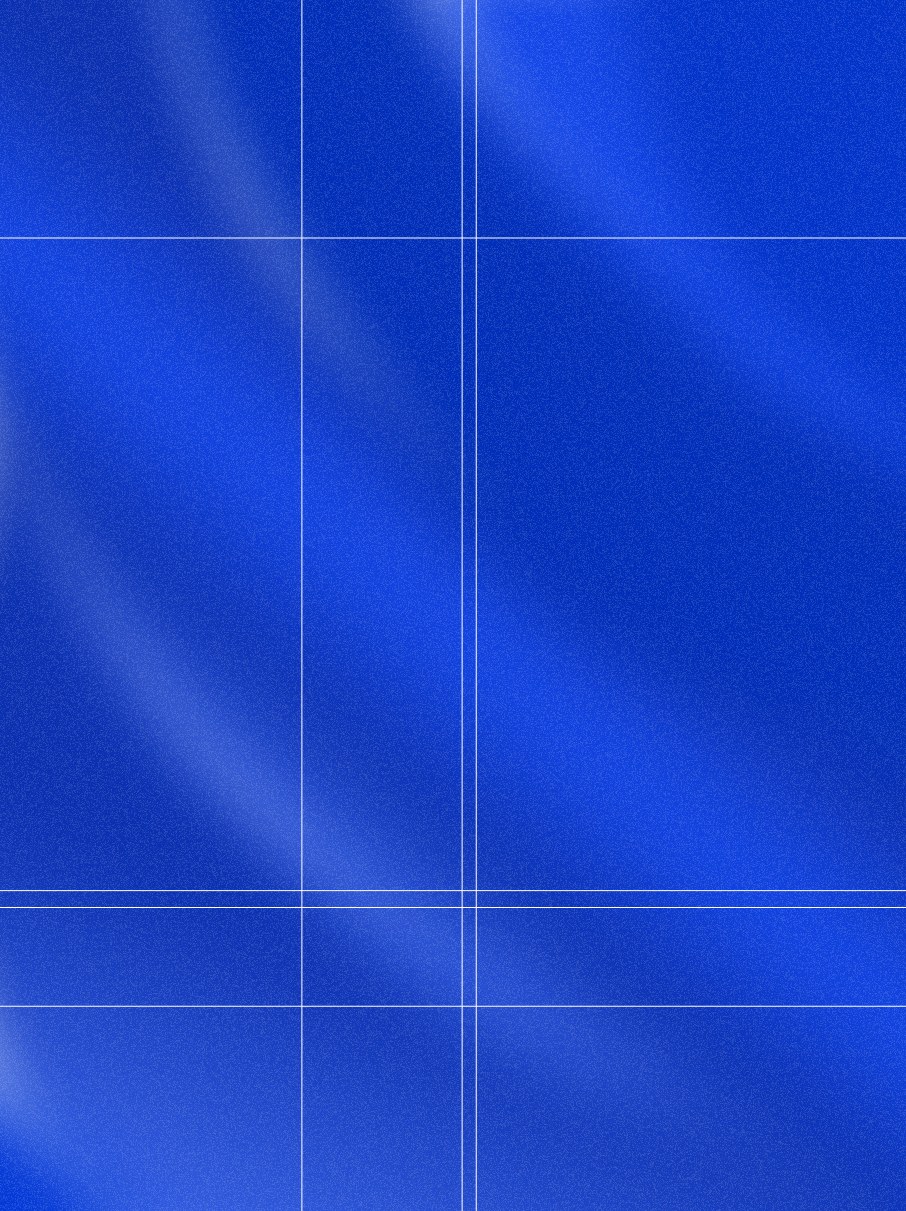
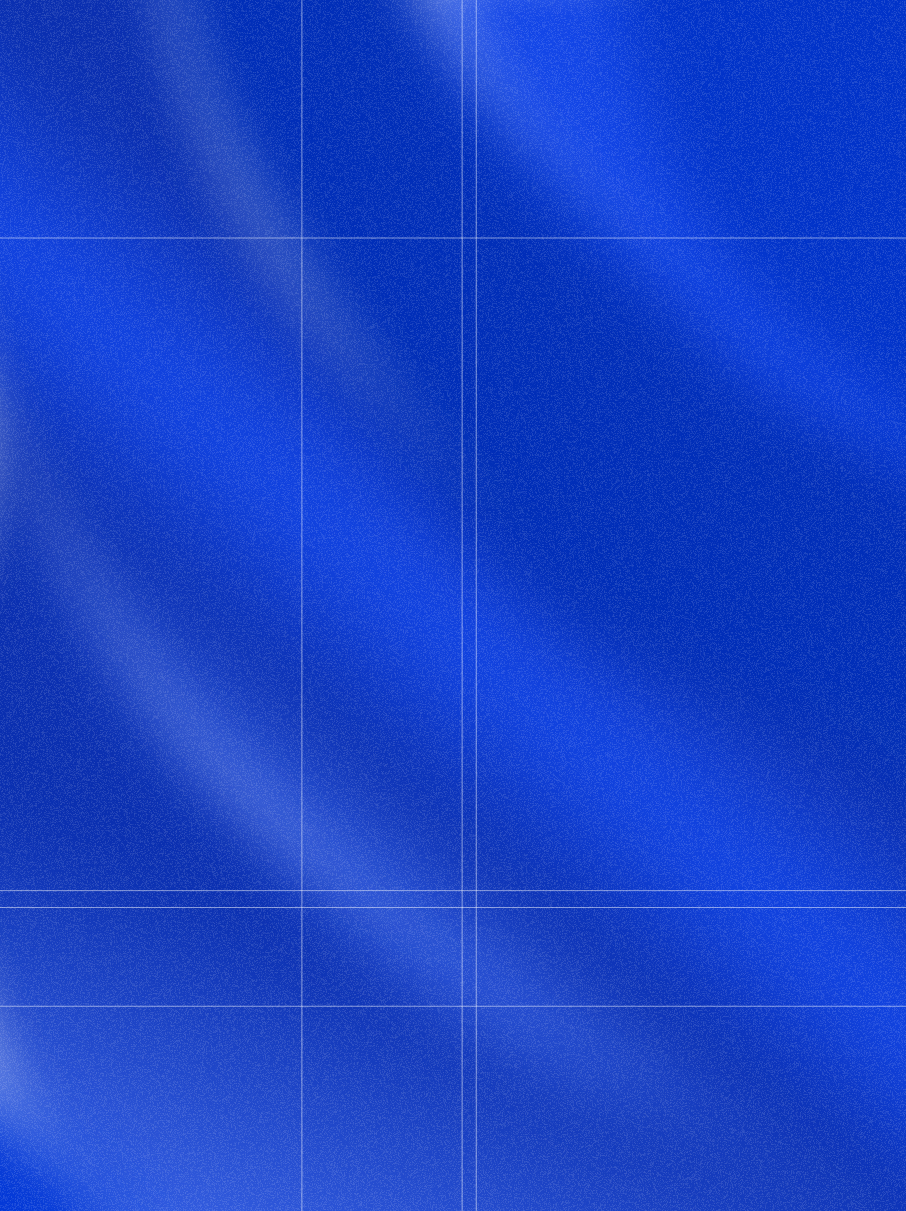
Enhance Hero Section and SVG Animations
- Updated HeroSection component to include a new background image and adjusted styles for better visual appeal.
- Integrated framer-motion for animated paths in HeroSvg, adding dynamic movement to specific elements.
- Modified Mascot SVG dimensions and added new design elements for improved aesthetics.
- Updated gradient images for CTA and search sections, including new assets for enhanced visual effects.

diff --git a/components/landing/svg/hero-svg.tsx b/components/landing/svg/hero-svg.tsx
@@ -1,3 +1,6 @@
+"use client";
+import { motion } from "framer-motion";
+
 const HeroSvg = () => {
   return (
     <svg
@@ -100,7 +103,8 @@ const HeroSvg = () => {
         d="M668.605 255.632V240.135C670.194 241.879 672.407 243.775 675.103 245.421C675.896 245.904 676.73 246.366 677.603 246.796C684.357 250.126 693.403 251.554 703.098 246.358C704.092 245.826 705.092 245.224 706.097 244.547C708.246 243.101 710.418 241.313 712.596 239.136V253.633V260.631C715.43 262.692 716.618 265.417 717.016 267.63C717.235 268.852 717.214 269.918 717.095 270.629C717.075 270.712 717.054 270.793 717.033 270.874L717.143 292.125L717.359 333.617L717.437 348.614L717.46 353.113L717.486 358.112L717.541 368.61L717.568 373.859L717.595 379.108L730.093 404.603V463.092C728.26 465.591 723.494 469.99 719.095 467.591V473.59C711.856 479.22 704.961 478.874 700.099 476.98C697.708 476.048 695.808 474.743 694.6 473.59C691.4 475.189 688.268 474.256 687.101 473.59C680.302 479.988 670.938 478.922 667.105 477.589C663.772 476.422 657.807 472.79 660.606 467.591C654.208 466.791 651.608 464.258 651.108 463.092V404.603L664.391 378.108V373.859V369.61V365.111V359.112V354.113V348.614V333.617V292.125V268.63C664.33 263.739 666.592 261.001 668.605 259.132V255.632Z"
         fill="white"
       />
-      <path
+      <motion.path
+        className="rocket"
         d="M668.605 229.138V240.135M668.605 229.138C670.883 230.495 670.803 230.814 674.604 232.091M668.605 229.138C666.689 228.283 662.978 225.962 663.457 223.51C663.8 221.757 663.876 213.068 667.349 197.448M668.605 240.135V255.632M668.605 240.135C670.194 241.879 672.407 243.775 675.103 245.421M668.605 255.632V259.132M668.605 255.632C669.607 257.252 671.823 259.513 675.103 261.427M712.596 253.633V239.136M712.596 253.633V260.631M712.596 253.633C710.893 257.039 708.51 259.439 705.83 261.131M712.596 239.136V228.341M712.596 239.136C710.418 241.313 708.246 243.101 706.097 244.547M712.596 228.341C709.743 230.654 705.098 232.57 703.598 232.57M712.596 228.341C715.52 226.478 716.134 224.344 716.075 223.51C714.929 214.632 713.237 205.957 711.261 197.752M668.605 259.132V267.63C668.936 270.5 671.286 275.229 677.603 277.977M668.605 259.132C666.592 261.001 664.33 263.739 664.391 268.63M717.033 270.874C716.027 274.72 714.323 276.927 706.097 281.627C697.699 286.426 684.602 284.96 679.103 283.627C674.604 281.627 665.375 276.129 664.605 271.129C664.468 270.238 664.4 269.407 664.391 268.63M717.033 270.874C717.054 270.793 717.075 270.712 717.095 270.629C717.214 269.918 717.235 268.852 717.016 267.63M717.033 270.874L717.143 292.125M717.033 270.874L717.016 267.63M712.596 260.631V267.63C712.293 270.059 710.293 273.999 705.098 276.809M712.596 260.631C715.43 262.692 716.618 265.417 717.016 267.63M664.391 268.63V292.125M664.391 378.108C672.961 386.773 695.599 399.104 717.595 379.108M664.391 378.108V373.859M664.391 378.108L651.108 404.603M664.391 378.108L663.106 409.602M717.595 379.108L717.568 373.859M717.595 379.108L730.093 404.603M717.595 379.108L717.381 409.602M664.391 292.125C677.603 304.123 696.785 308.922 717.143 292.125M664.391 292.125V333.617M717.143 292.125L717.359 333.617M664.391 333.617C672.636 341.282 694.774 352.013 717.359 333.617M664.391 333.617V348.614M717.359 333.617L717.437 348.614M664.391 348.614C673.355 355.946 696.514 366.211 717.437 348.614M664.391 348.614V354.113M717.437 348.614L717.46 353.113M664.391 354.113C673.37 361.278 696.556 371.11 717.46 353.113M664.391 354.113V359.112M717.46 353.113L717.486 358.112M664.391 359.112C672.388 366.111 694.203 375.709 717.486 358.112M664.391 359.112V365.111M717.486 358.112L717.541 368.61M664.391 365.111C672.803 371.443 695.174 380.008 717.359 363.611M664.391 365.111V369.61M664.391 369.61C672.924 376.275 695.501 385.407 717.541 368.61M664.391 369.61V373.859M717.541 368.61L717.568 373.859M664.391 373.859C673.942 381.274 697.95 391.656 717.568 373.859M677.603 246.796C677.77 244.076 678.003 238.536 677.603 238.136C677.103 237.636 674.604 237.136 674.604 236.136V232.091M677.603 246.796C676.73 246.366 675.896 245.904 675.103 245.421M677.603 246.796C684.357 250.126 693.403 251.554 703.098 246.358M674.604 232.091C686.204 234.485 691.869 234.644 703.598 232.57M703.598 232.57C703.431 234.403 703.198 237.336 703.598 238.136C704.098 239.136 706.097 237.636 706.097 239.136V244.547M706.097 244.547C705.092 245.224 704.092 245.826 703.098 246.358M675.103 245.421C674.937 247.158 674.704 250.833 675.103 251.633C675.603 252.633 677.603 252.133 677.603 254.133V262.71M677.603 262.71C681.094 264.277 685.466 265.344 690.6 265.131C694.212 264.98 698.675 264.479 702.809 262.71M677.603 262.71C676.712 262.311 675.878 261.878 675.103 261.427M703.098 246.358C702.931 248.283 702.698 252.333 703.098 253.133C703.598 254.133 706.097 253.133 706.097 253.633C706.097 254.033 705.919 258.798 705.83 261.131M705.83 261.131C704.856 261.747 703.843 262.268 702.809 262.71M675.103 261.427C674.937 262.661 674.704 265.43 675.103 266.63C675.603 268.13 677.603 267.63 677.603 268.63V277.977M677.603 277.977C680.82 279.377 685.067 280.263 690.6 280.128C697.04 279.97 701.737 278.626 705.098 276.809M702.809 262.71C702.713 264.158 702.578 267.268 702.809 268.13C703.098 269.207 704.782 268.273 705.098 269.451C705.35 270.394 705.203 274.749 705.098 276.809M651.108 404.603C652.608 406.936 657.107 411.202 663.106 409.602M651.108 404.603V463.092C651.608 464.258 654.208 466.791 660.606 467.591M663.106 409.602V412.774M660.606 467.591V417.601M660.606 467.591C657.807 472.79 663.772 476.422 667.105 477.589M660.606 417.601C661.806 420 665.439 419.6 667.105 419.1M660.606 417.601L663.106 412.774M675.103 389.606L687.101 416.601M675.103 389.606L667.105 419.1M675.103 389.606L663.106 412.774M687.101 416.601C683.435 419.1 674.304 423.1 667.105 419.1M687.101 416.601V473.59M667.105 419.1V477.589M667.105 477.589C670.938 478.922 680.302 479.988 687.101 473.59M687.101 473.59C688.268 474.256 691.4 475.189 694.6 473.59M694.6 416.601L706.597 389.606M694.6 416.601C694.6 417.401 697.266 418.6 698.599 419.1C699.107 419.3 699.607 419.482 700.099 419.647M694.6 416.601V473.59M706.597 389.606L700.099 419.647M706.597 389.606L717.359 412.851M719.095 416.601C717.027 419.146 710.434 423.118 700.099 419.647M719.095 416.601L717.359 412.851M719.095 416.601V467.591M700.099 419.647V476.98M694.6 473.59C695.808 474.743 697.708 476.048 700.099 476.98M700.099 476.98C704.961 478.874 711.856 479.22 719.095 473.59V467.591M717.359 412.851L717.381 409.602M730.093 404.603C728.117 406.936 722.809 411.202 717.381 409.602M730.093 404.603V463.092C728.26 465.591 723.494 469.99 719.095 467.591M667.349 197.448C675.39 202.463 695.429 209.545 711.261 197.752M667.349 197.448C667.976 194.628 668.714 191.583 669.584 188.311M711.261 197.752C710.485 194.527 709.665 191.375 708.817 188.311M669.584 188.311C676.729 192.707 694.579 198.86 708.817 188.311M669.584 188.311C670.699 184.12 672.03 179.559 673.625 174.627M708.817 188.311C707.488 183.512 706.091 178.929 704.687 174.627M673.625 174.627C679.469 177.835 693.864 182.327 704.687 174.627M673.625 174.627C674.396 172.24 675.229 169.767 676.128 167.207M704.687 174.627C703.845 172.049 703.001 169.571 702.167 167.207M676.128 167.207C677.934 162.067 680.009 156.577 682.393 150.737L687.811 138.988C688.351 137.958 689.695 136.516 690.755 138.988C691.431 140.566 696.564 151.321 702.167 167.207M676.128 167.207C681.146 169.202 693.378 171.995 702.167 167.207M669.605 311.122C671.437 312.121 675.103 314.321 675.103 315.121C675.103 316.121 675.603 326.618 675.103 327.118C674.604 327.618 668.605 324.619 668.605 324.119C668.605 323.619 668.105 310.622 669.605 311.122ZM686.101 316.62C688.268 316.454 692.8 316.221 693.6 316.62C694.6 317.12 694.6 329.618 694.1 330.118C693.6 330.618 686.101 331.118 686.101 330.118C686.101 329.118 685.408 316.67 686.101 316.62ZM705.098 315.121C706.764 313.621 710.297 310.722 711.096 311.122C712.096 311.621 712.096 322.619 711.596 323.119C711.096 323.619 706.097 328.118 705.597 327.618C705.098 327.118 704.598 315.563 705.098 315.121Z"
         stroke="black"
       />
@@ -185,6 +189,14 @@ const HeroSvg = () => {
         cy="2.6373"
         r="2.1373"
         transform="matrix(0.866025 -0.5 0.866025 0.5 82.9001 134.986)"
+        fill="white"
+        stroke="black"
+      />
+      <circle
+        cx="2.6373"
+        cy="2.6373"
+        r="2.1373"
+        transform="matrix(0.866025 -0.5 0.866025 0.5 8.81128 93.5552)"
         fill="white"
         stroke="black"
       />
@@ -302,7 +314,7 @@ const HeroSvg = () => {
         />
       </g>
       <path
-        d="M253.285 205.054L291.233 211.844L424.335 209.315L467.809 209.428C468.286 206.537 465.856 204.393 464.581 203.683C435.86 187.276 376.596 153.293 369.307 148.621C362.017 143.95 354.729 146.303 351.995 148.064L253.285 205.054Z"
+        d="M253.285 205.054L291.106 211.844L317.702 216.515V229.842L333.826 239.603L334.99 201.797L424.335 209.315L467.809 209.428C468.286 206.537 465.856 204.393 464.581 203.683C435.86 187.276 376.596 153.293 369.307 148.621C362.017 143.95 354.729 146.303 351.995 148.064L253.285 205.054Z"
         fill="white"
       />
       <path
@@ -310,33 +322,60 @@ const HeroSvg = () => {
         stroke="black"
       />
       <path
-        d="M368.381 149.867C370.116 149.724 375.803 149.78 378.182 151.154L416.107 173.05C422.458 177.939 424.066 184.378 423.599 189.824L423.599 212.119C423.231 215.888 421.426 219.377 420.569 220.65C404.22 237.394 385.995 238.913 378.926 237.58C368.108 236.597 364.999 234.369 364.797 233.377V212.119L368.381 149.867Z"
+        d="M368.381 153.867C370.116 153.724 375.803 153.78 378.182 155.154L416.107 177.05C422.458 181.939 424.066 188.378 423.599 193.824L423.599 216.119C423.231 219.888 421.426 223.377 420.569 224.65C404.22 241.394 385.995 242.913 378.926 241.58C368.108 240.597 364.999 238.369 364.797 237.377V216.119L368.381 153.867Z"
         fill="white"
       />
-      <path
-        d="M420.569 198.81C416.107 205.679 396.029 218.13 378.926 215.983M420.569 198.81L420.569 220.65M420.569 198.81C421.981 196.83 423.279 193.561 423.599 189.824M378.926 215.983C365.243 214.266 365.789 212.406 364.797 212.119M378.926 215.983V237.58M364.797 212.119L368.381 149.867C370.116 149.724 375.803 149.78 378.182 151.154C380.562 152.528 403.962 166.038 416.107 173.05C422.458 177.939 424.066 184.378 423.599 189.824M364.797 212.119V233.377C364.999 234.369 368.108 236.597 378.926 237.58M378.926 237.58C385.995 238.913 404.22 237.394 420.569 220.65M420.569 220.65C421.426 219.377 423.231 215.888 423.599 212.119L423.599 189.824"
+      <motion.path
+        animate={{ y: [0, -3, 0, 7, 0] }}
+        transition={{
+          duration: 1.1,
+          ease: "easeInOut",
+          repeat: Infinity,
+          times: [0, 0.2, 0.5, 0.8, 1],
+          delay: 0.4,
+        }}
+        d="M420.569 202.81C416.107 209.679 396.029 222.13 378.926 219.983M420.569 202.81L420.569 224.65M420.569 202.81C421.981 200.83 423.279 197.561 423.599 193.824M378.926 219.983C365.243 218.266 365.789 216.406 364.797 216.119M378.926 219.983V241.58M364.797 216.119L368.381 153.867C370.116 153.724 375.803 153.78 378.182 155.154C380.562 156.528 403.962 170.038 416.107 177.05C422.458 181.939 424.066 188.378 423.599 193.824M364.797 216.119V237.377C364.999 238.369 368.108 240.597 378.926 241.58M378.926 241.58C385.995 242.913 404.22 241.394 420.569 224.65M420.569 224.65C421.426 223.377 423.231 219.888 423.599 216.119L423.599 193.824"
         stroke="black"
       />
       <path
-        d="M295.638 185.071L318.691 171.761L319.184 193.502L317.203 228.326L297.125 217.074C293.092 214.814 291.965 212.505 291.906 211.632L291.906 189.711C291.902 189.623 291.902 189.534 291.906 189.446C291.975 187.898 293.266 186.44 295.638 185.071Z"
+        d="M295.638 189.071L318.691 175.761L319.184 197.502L317.203 232.326L297.125 221.074C293.092 218.814 291.965 216.505 291.906 215.632L291.906 193.711C291.902 193.623 291.902 193.534 291.906 193.446C291.975 191.898 293.266 190.44 295.638 189.071Z"
         fill="white"
       />
-      <path
-        d="M318.691 171.761L295.638 185.071C293.266 186.44 291.975 187.898 291.906 189.446M318.691 171.761L317.203 206.967M318.691 171.761L319.184 193.502L317.203 228.326M297.125 195.375C304.264 199.496 313.485 204.82 317.203 206.967M297.125 195.375V217.074M297.125 195.375C296.587 195.063 296.091 194.755 295.638 194.45C293.029 192.689 291.835 191.022 291.906 189.446M317.203 206.967V228.326M317.203 228.326L297.125 217.074M297.125 217.074C293.092 214.814 291.965 212.505 291.906 211.632L291.906 189.446"
+      <motion.path
+        animate={{ y: [0, -3, 0, 7, 0] }}
+        transition={{
+          duration: 1.1,
+          ease: "easeInOut",
+          repeat: Infinity,
+          times: [0, 0.2, 0.5, 0.8, 1],
+          delay: 0.2,
+        }}
+        d="M318.691 175.761L295.638 189.071C293.266 190.44 291.975 191.898 291.906 193.446M318.691 175.761L317.203 210.967M318.691 175.761L319.184 197.502L317.203 232.326M297.125 199.375C304.264 203.496 313.485 208.82 317.203 210.967M297.125 199.375V221.074M297.125 199.375C296.587 199.063 296.091 198.755 295.638 198.45C293.029 196.689 291.835 195.022 291.906 193.446M317.203 210.967V232.326M317.203 232.326L297.125 221.074M297.125 221.074C293.092 218.814 291.965 216.505 291.906 215.632L291.906 193.446"
         stroke="black"
         stroke-linejoin="round"
       />
       <path
-        d="M338.026 159.74L359.591 147.29C362.261 145.748 366.653 145.503 368.515 145.572C368.515 159.734 367.33 180.054 366.079 197.069L364.894 233.932L363.309 249.988C362.564 253.282 356.554 251.36 353.642 249.988L334.308 238.316V216.842L338.026 159.74Z"
+        d="M338.026 163.74L359.591 151.29C362.261 149.748 366.653 149.503 368.515 149.572C368.515 163.734 367.33 184.054 366.079 201.069L364.894 237.932L363.309 253.988C362.564 257.282 356.554 255.36 353.642 253.988L334.308 242.316V220.842L338.026 163.74Z"
         fill="white"
       />
-      <path
-        d="M334.308 216.842L338.026 159.74L359.591 147.29C362.261 145.748 366.653 145.503 368.515 145.572C368.515 159.734 367.33 180.054 366.079 197.069M334.308 216.842L353.642 228.005M334.308 216.842V238.316L353.642 249.988M353.642 228.005C355.129 228.863 362.899 231.039 363.309 228.434M353.642 228.005V249.988M363.309 228.434V249.988M363.309 228.434C363.67 226.145 364.903 213.068 366.079 197.069M363.309 249.988C362.564 253.282 356.554 251.36 353.642 249.988M363.309 249.988L364.894 233.932L366.079 197.069"
+      <motion.path
+        animate={{ y: [0, -3, 0, 7, 0] }}
+        transition={{
+          duration: 1.1,
+          ease: "easeInOut",
+          repeat: Infinity,
+          times: [0, 0.2, 0.5, 0.8, 1],
+        }}
+        d="M334.308 220.842L338.026 163.74L359.591 151.29C362.261 149.748 366.653 149.503 368.515 149.572C368.515 163.734 367.33 184.054 366.079 201.069M334.308 220.842L353.642 232.005M334.308 220.842V242.316L353.642 253.988M353.642 232.005C355.129 232.863 362.899 235.039 363.309 232.434M353.642 232.005V253.988M363.309 232.434V253.988M363.309 232.434C363.67 230.145 364.903 217.068 366.079 201.069M363.309 253.988C362.564 257.282 356.554 255.36 353.642 253.988M363.309 253.988L364.894 237.932L366.079 201.069"
         stroke="black"
       />
       <path
-        d="M291.251 211.854L254.445 205.235C249.642 207.583 252.716 211.135 254.309 212.116L353.12 269.415C359.638 272.163 364.618 270.56 366.294 269.415C398.102 251.175 462.435 214.281 465.294 212.634C468.153 210.986 468.552 209.826 468.394 209.452L424.165 209.279C424.681 215.545 422.136 220.53 420.831 222.199C402.489 240.067 385.525 239.776 378.81 239.3C373.439 238.919 367.685 236.989 365.479 236.071L363.886 252.096C361.937 254.345 356.077 252.221 353.39 250.878L333.804 239.445V218.585L334.658 205.113L319.15 206.444L318.44 218.918C318.44 218.918 318.053 229.829 317.635 229.829C317.216 229.829 300.911 220.534 296.038 217.61C291.165 214.686 291.251 212.959 291.251 211.854Z"
+        d="M254.445 205.235L291.381 211.162C291.381 212.267 291.165 214.686 296.038 217.61C300.911 220.534 317.216 229.829 317.635 229.829L333.804 239.445L353.39 250.878C356.076 252.221 361.937 254.345 363.886 252.096L365.745 235.87C367.951 236.788 373.166 238.267 378.649 238.855C385.342 239.573 402.489 240.067 420.831 222.199C422.136 220.53 424.71 215.235 424.195 208.97H468.523C468.68 209.344 468.153 210.986 465.294 212.634C462.435 214.281 398.102 251.175 366.293 269.415C364.618 270.56 359.638 272.163 353.12 269.415L254.308 212.116C252.716 211.135 249.642 207.583 254.445 205.235Z"
         fill="white"
+      />
+      <path
+        d="M291.791 211.063C291.791 212.168 291.212 214.423 296.085 217.347C300.958 220.271 317.451 229.396 317.87 229.396M333.804 239.006L353.39 250.878C356.076 252.222 361.745 253.762 363.694 251.513L365.421 235.297C367.627 236.215 374.25 238.062 379.621 238.443C386.335 238.919 399.768 239.646 420.456 222.114C424.169 218.115 423.76 216.005 423.76 209.298"
+        stroke="black"
       />
       <path
         d="M439.216 249.611L405.677 269.416V295.34L439.216 276.719V249.611Z"

diff --git a/components/landing/svg/mascot.tsx b/components/landing/svg/mascot.tsx
@@ -4,45 +4,52 @@ const Mascot = () => {
   return (
     <>
       <svg
-        width="42"
-        height="42"
-        viewBox="0 0 42 42"
+        width="235"
+        height="181"
+        viewBox="0 0 235 181"
         fill="none"
         xmlns="http://www.w3.org/2000/svg"
       >
         <path
-          data-figma-bg-blur-radius="20"
-          d="M20.7496 5.40685C22.2554 5.40685 23.7836 5.60912 25.2444 5.99117C29.2447 1.49642 36.5487 -0.391379 39.6725 0.9121C42.8189 2.21558 38.7286 16.6437 38.7286 16.6437C40.0096 19.0484 40.976 21.6779 40.976 24.3747C40.976 34.398 31.9191 41.3649 20.7496 41.3649C9.58015 41.3649 0.523221 34.6228 0.523221 24.3747C0.523221 21.5655 1.64691 18.981 2.7706 16.6437C2.7706 16.6437 -1.47694 2.21558 1.64691 0.9121C4.77076 -0.391379 12.2545 1.429 16.2549 5.92375C17.7292 5.58464 19.2368 5.41127 20.7496 5.40685Z"
-          stroke="white"
-          strokeLinecap="round"
-          strokeLinejoin="round"
+          d="M60.9968 172.816C38.9355 167.665 6.72303 151.046 4.31532 108.108C3.23331 88.8117 8.79683 71.7645 16.6627 57.8859C-11.7918 37.3621 2.54146 14.7596 13.2649 6.02374C36.8103 -7.42482 52.2304 8.13898 56.9972 17.602C104.258 -7.68351 147.026 1.49548 176.411 17.602C181.184 10.2488 194.174 -3.40926 207.955 0.783184C218.649 2.11611 238.893 11.295 234.323 37.3473C233.607 42.2795 229.305 53.2922 217.823 57.8859C229.999 81.8895 238.72 119.169 213.987 150.243C182.687 189.57 98.9518 181.678 60.9968 172.816Z"
+          fill="white"
         />
         <path
-          d="M11.9893 25.3379V26.4392"
-          stroke="white"
-          strokeLinecap="round"
-          strokeLinejoin="round"
+          d="M176.411 17.602C190.159 25.1373 200.977 34.1889 207.955 41.937C211.114 46.074 214.59 51.5119 217.823 57.8859C229.305 53.2922 233.607 42.2795 234.323 37.3473C238.893 11.295 218.649 2.11611 207.955 0.783184C194.174 -3.40926 181.184 10.2488 176.411 17.602Z"
+          fill="black"
         />
         <path
-          d="M29.48 25.3369V26.4383"
-          stroke="white"
-          strokeLinecap="round"
-          strokeLinejoin="round"
+          d="M47.9555 22.834C50.9859 20.9466 54.0006 19.2047 56.9972 17.6015C52.2304 8.13851 36.8103 -7.42529 13.2649 6.02327C2.54146 14.7591 -11.7918 37.3616 16.6627 57.8855C26.3001 40.8814 39.3936 28.6338 47.9555 22.834Z"
+          fill="black"
         />
         <path
-          d="M19.1001 30.2935H22.3798L20.74 31.9455L19.1001 30.2935Z"
-          stroke="white"
-          strokeLinecap="round"
-          strokeLinejoin="round"
+          d="M37.1879 111.331C38.0751 86.0456 53.4301 77.5063 60.9966 76.3973C72.8623 73.5668 82.8523 82.7182 84.9266 91.3564C87.6953 111.845 76.3897 122.505 70.3908 125.273C42.7036 136.427 36.7192 120.626 37.1879 111.331Z"
+          fill="black"
         />
-        <defs>
-          <clipPath
-            id="bgblur_0_1017_809_clip_path"
-            transform="translate(20 20)"
-          >
-            <path d="M20.7496 5.40685C22.2554 5.40685 23.7836 5.60912 25.2444 5.99117C29.2447 1.49642 36.5487 -0.391379 39.6725 0.9121C42.8189 2.21558 38.7286 16.6437 38.7286 16.6437C40.0096 19.0484 40.976 21.6779 40.976 24.3747C40.976 34.398 31.9191 41.3649 20.7496 41.3649C9.58015 41.3649 0.523221 34.6228 0.523221 24.3747C0.523221 21.5655 1.64691 18.981 2.7706 16.6437C2.7706 16.6437 -1.47694 2.21558 1.64691 0.9121C4.77076 -0.391379 12.2545 1.429 16.2549 5.92375C17.7292 5.58464 19.2368 5.41127 20.7496 5.40685Z" />
-          </clipPath>
-        </defs>
+        <path
+          d="M152.103 114.835C142.383 95.126 150.078 83.6738 155.14 80.4114C158.178 77.6592 176.411 67.2492 191.589 91.3557C203.732 110.641 194.849 123.144 188.889 126.985C180.677 131.148 161.823 134.545 152.103 114.835Z"
+          fill="black"
+        />
+        <path
+          d="M114.77 127.711C109.776 127.589 104.945 121.308 105.407 118.119C105.981 114.158 112.785 114.158 117.358 114.158H117.358C121.931 114.158 128.711 114.921 128.929 119.033C129.148 123.144 123.307 126.531 120.359 127.711C119.629 130.6 120.359 133.178 120.814 134.106C127.945 143.634 135.038 135.588 135.858 134.106C136.515 132.92 137.955 132.749 138.594 132.812C142.751 133.654 140.934 137.273 139.505 138.978C130.898 148.765 121.155 143.055 117.358 138.978C107.919 147.991 99.216 143.291 96.0442 139.815C94.877 138.698 92.7404 135.994 93.5321 134.106C94.3238 132.218 96.1965 132.456 97.0339 132.812C108.848 144.566 115.027 135.052 114.77 127.711Z"
+          fill="black"
+        />
+        <ellipse
+          cx="70.4993"
+          cy="102.998"
+          rx="4.5354"
+          ry="6.18555"
+          transform="rotate(28.241 70.4993 102.998)"
+          fill="white"
+        />
+        <ellipse
+          cx="162.033"
+          cy="103.444"
+          rx="4.5354"
+          ry="6.18555"
+          transform="rotate(-15 162.033 103.444)"
+          fill="white"
+        />
       </svg>
     </>
   );

diff --git a/app/page.tsx b/app/page.tsx
@@ -22,7 +22,7 @@ const Page = () => {
       {/* Row 2: Hero Section */}
       <div
         id="home"
-        className="col-start-2 row-start-3 flex w-[95vw] scroll-mt-24 flex-col gap-2 px-3 pt-20 sm:px-6 md:w-[90vw]"
+        className="col-start-2 row-start-3 flex w-[95vw] scroll-mt-24 flex-col gap-2 px-3 pt-20 pb-10 sm:px-6 sm:pb-14 md:w-[90vw]"
       >
         <HeroSection />
       </div>
@@ -32,7 +32,7 @@ const Page = () => {
       {/* Row 3: Search Section */}
       <div
         id="search"
-        className="col-start-2 row-start-5 flex w-[95vw] scroll-mt-24 flex-col gap-2 px-3 sm:px-6 md:w-[90vw]"
+        className="col-start-2 row-start-5 flex w-[95vw] scroll-mt-24 flex-col gap-2 px-3 py-10 sm:px-6 sm:py-14 md:w-[90vw]"
       >
         <Search />
       </div>
@@ -42,7 +42,7 @@ const Page = () => {
       {/* Row 4: Bento Section */}
       <div
         id="features"
-        className="col-start-2 row-start-7 flex w-[95vw] scroll-mt-24 flex-col p-3 sm:p-6 md:w-[90vw]"
+        className="col-start-2 row-start-7 flex w-[95vw] scroll-mt-24 flex-col p-3 py-10 sm:p-6 sm:py-14 md:w-[90vw]"
       >
         <Bento />
       </div>
@@ -52,7 +52,7 @@ const Page = () => {
       {/* Row 5: Testimonials Section */}
       <div
         id="testimonials"
-        className="col-start-2 row-start-9 flex w-[95vw] scroll-mt-24 flex-col p-3 sm:p-6 md:w-[90vw]"
+        className="col-start-2 row-start-9 flex w-[95vw] scroll-mt-24 flex-col p-3 py-10 sm:p-6 sm:py-14 md:w-[90vw]"
       >
         <Testimonials />
       </div>
@@ -62,7 +62,7 @@ const Page = () => {
       {/* Row 6: FAQ Section */}
       <div
         id="faq"
-        className="col-start-2 row-start-11 flex w-[95vw] scroll-mt-24 flex-col px-3 sm:px-6 md:w-[90vw]"
+        className="col-start-2 row-start-11 flex w-[95vw] scroll-mt-24 flex-col px-3 py-10 sm:px-6 sm:py-14 md:w-[90vw]"
       >
         <Faq />
       </div>
@@ -70,14 +70,14 @@ const Page = () => {
       <div className="pointer-events-none col-span-full col-start-1 row-start-12 border-b-2 border-dashed" />
 
       {/* Row 7: CTA Section */}
-      <div className="col-start-2 row-start-13 flex w-[95vw] flex-col overflow-hidden p-3 sm:p-6 md:w-[90vw]">
+      <div className="col-start-2 row-start-13 flex w-[95vw] flex-col overflow-hidden p-3 py-10 sm:p-6 sm:py-14 md:w-[90vw]">
         <CTA />
       </div>
 
       <div className="pointer-events-none col-span-full col-start-1 row-start-14 border-b-2 border-dashed" />
 
       {/* Row 8: Footer */}
-      <div className="col-start-2 row-start-15 flex w-[95vw] flex-col px-3 py-6 sm:px-6 md:w-[90vw]">
+      <div className="col-start-2 row-start-15 flex w-[95vw] flex-col px-3 py-10 sm:px-6 sm:py-14 md:w-[90vw]">
         <Footer />
       </div>
 

diff --git a/components/landing/components/herosection.tsx b/components/landing/components/herosection.tsx
@@ -31,8 +31,10 @@ const HeroSection = () => {
           <span className="flex items-start gap-2 sm:gap-3">
             Strong{" "}
             <span
-              className="rounded-md bg-blue-700 p-1 sm:p-1.5 md:p-2 [&_svg]:size-6 sm:[&_svg]:size-8 md:[&_svg]:size-10"
+              className="rounded-md bg-cover bg-center bg-no-repeat p-1 sm:p-1.5 md:p-2 [&_svg]:size-6 sm:[&_svg]:size-8 md:[&_svg]:size-10"
               style={{
+                backgroundImage:
+                  "url('/landing/gradient/search-gradient2.png')",
                 boxShadow: "0px 7px 12.8px rgba(19, 70, 231, 0.6)",
                 transform: "rotate(-14.5deg)",
               }}